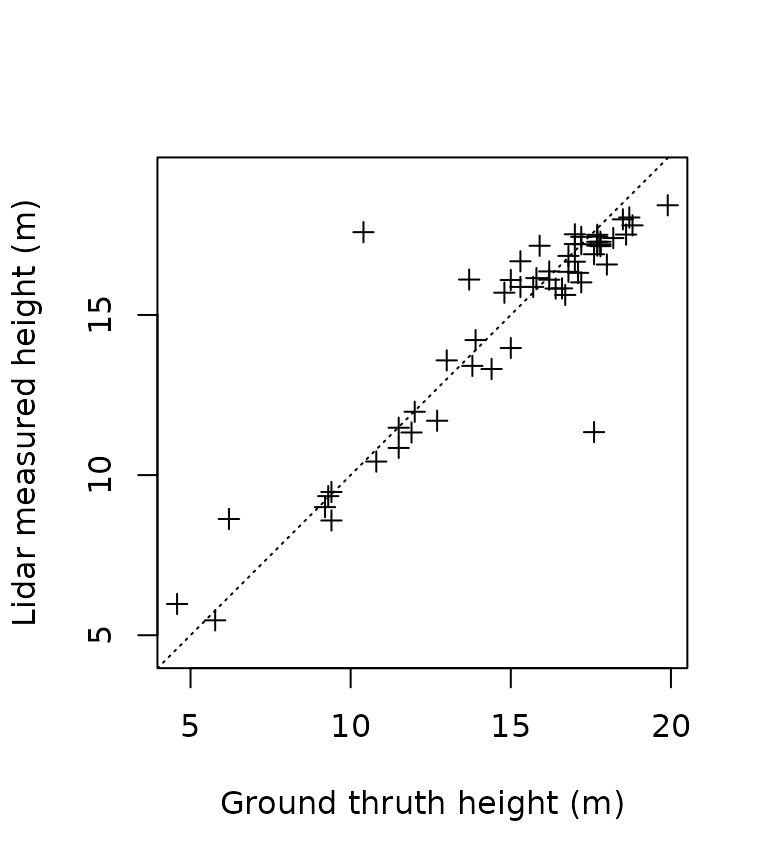
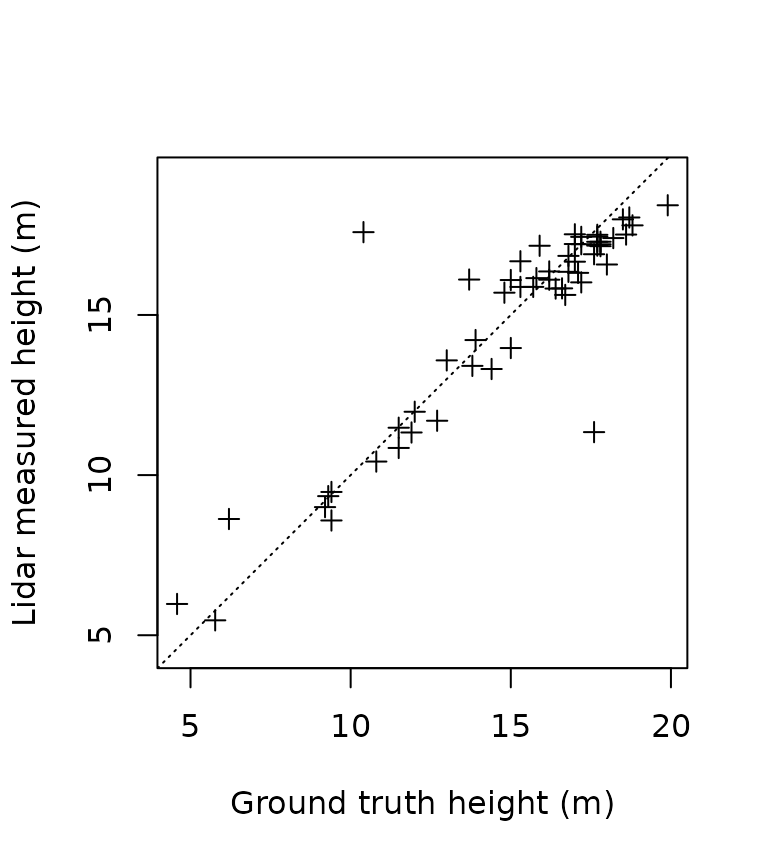
Deploying to gh-pages from @ r-lidar/TreeMatching@5ea4817b390baa4eb5227709cd045db1225658a6 🚀

Changed region(s): [[0.2812, 0.9062, 0.8125, 0.9688]]

diff --git a/articles/Tutorial.html b/articles/Tutorial.html
@@ -350,14 +350,14 @@ attribute from the original data.</p>
 <span><span class="va">dbh_inventory</span> <span class="op">=</span> <span class="va">tm</span><span class="op">$</span><span class="va">inventory</span><span class="op">[</span><span class="va">true_positive</span><span class="op">$</span><span class="va">index_inventory</span>,<span class="op">]</span><span class="op">$</span><span class="va">DBH</span> </span>
 <span><span class="va">dbh_measured</span>  <span class="op">=</span> <span class="va">tm</span><span class="op">$</span><span class="va">measure</span><span class="op">[</span><span class="va">true_positive</span><span class="op">$</span><span class="va">index_measure</span>,<span class="op">]</span><span class="op">$</span><span class="va">DBH</span> <span class="op">*</span> <span class="fl">100</span> </span>
 <span><span class="fu"><a href="https://rdrr.io/r/graphics/plot.default.html" class="external-link">plot</a></span><span class="op">(</span><span class="va">dbh_inventory</span>, <span class="va">dbh_measured</span>, asp <span class="op">=</span> <span class="fl">1</span>, pch <span class="op">=</span> <span class="fl">3</span>,</span>
-<span>     xlab <span class="op">=</span> <span class="st">"Ground thruth DBH (cm)"</span>,</span>
+<span>     xlab <span class="op">=</span> <span class="st">"Ground truth DBH (cm)"</span>,</span>
 <span>     ylab <span class="op">=</span> <span class="st">"Lidar measured DBH (cm)"</span><span class="op">)</span></span>
 <span><span class="fu"><a href="https://rdrr.io/r/graphics/abline.html" class="external-link">abline</a></span><span class="op">(</span><span class="fl">0</span>,<span class="fl">1</span>, lty <span class="op">=</span> <span class="fl">3</span><span class="op">)</span></span>
 <span></span>
 <span><span class="va">height_inventory</span> <span class="op">=</span> <span class="va">tm</span><span class="op">$</span><span class="va">inventory</span><span class="op">[</span><span class="va">true_positive</span><span class="op">$</span><span class="va">index_inventory</span>,<span class="op">]</span><span class="op">$</span><span class="va">Ht</span> </span>
 <span><span class="va">height_measured</span>  <span class="op">=</span> <span class="va">tm</span><span class="op">$</span><span class="va">measure</span><span class="op">[</span><span class="va">true_positive</span><span class="op">$</span><span class="va">index_measure</span>,<span class="op">]</span><span class="op">$</span><span class="va">TH</span></span>
 <span><span class="fu"><a href="https://rdrr.io/r/graphics/plot.default.html" class="external-link">plot</a></span><span class="op">(</span><span class="va">height_inventory</span>, <span class="va">height_measured</span>, asp <span class="op">=</span> <span class="fl">1</span>, pch <span class="op">=</span> <span class="fl">3</span>,</span>
-<span>     xlab <span class="op">=</span> <span class="st">"Ground thruth height (m)"</span>,</span>
+<span>     xlab <span class="op">=</span> <span class="st">"Ground truth height (m)"</span>,</span>
 <span>     ylab <span class="op">=</span> <span class="st">"Lidar measured height (m)"</span><span class="op">)</span></span>
 <span><span class="fu"><a href="https://rdrr.io/r/graphics/abline.html" class="external-link">abline</a></span><span class="op">(</span><span class="fl">0</span>,<span class="fl">1</span>, lty <span class="op">=</span> <span class="fl">3</span><span class="op">)</span></span></code></pre></div>
 <p><img src="Tutorial_files/figure-html/unnamed-chunk-13-1.png" width="384"><img src="Tutorial_files/figure-html/unnamed-chunk-13-2.png" width="384"></p>
